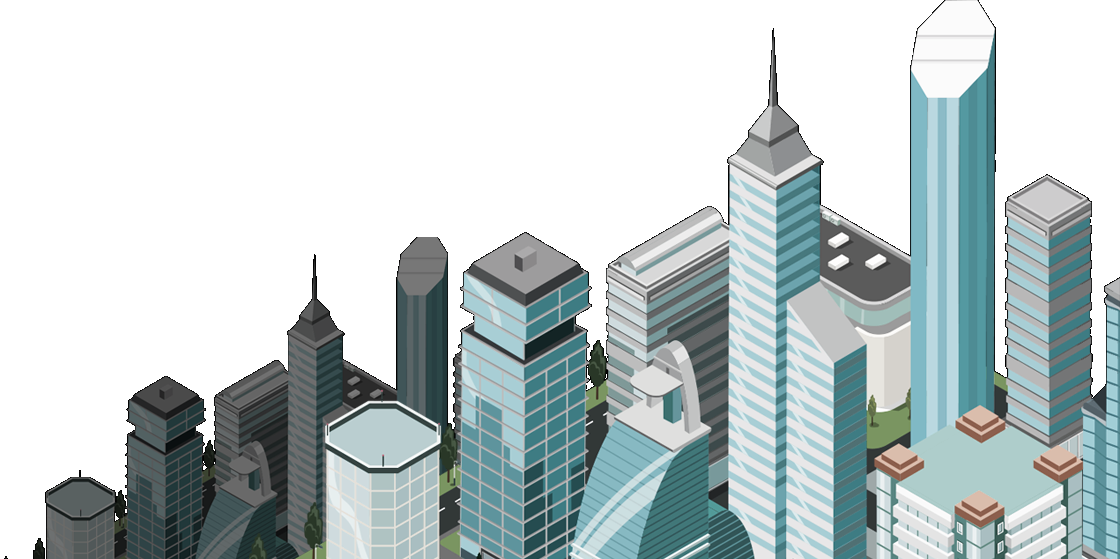
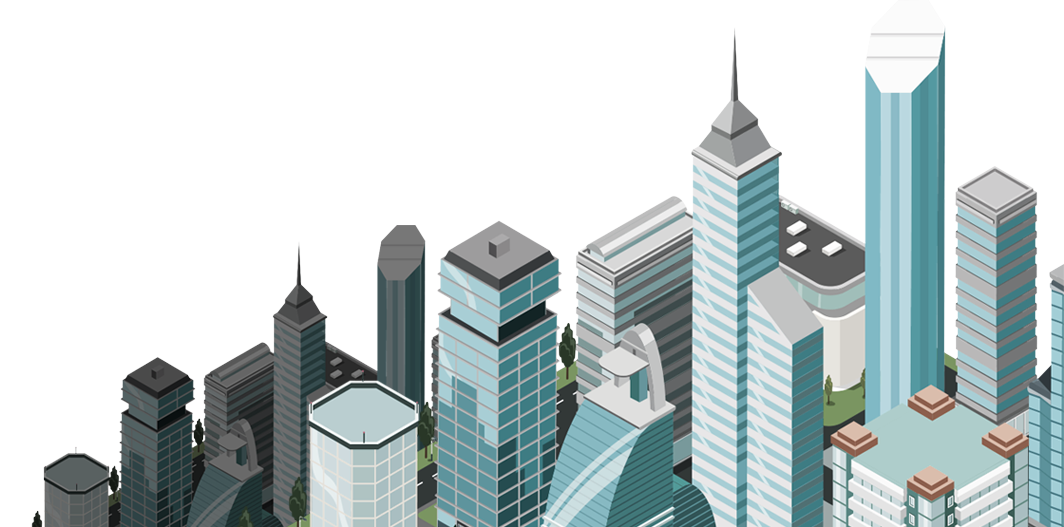
x

diff --git a/assets/styles/yojee.css b/assets/styles/yojee.css
@@ -256,17 +256,17 @@ img.biglogo{
 
 .sir-raffles {
     position: absolute;
-    max-height: 55%;
-    height:55%;
+    max-height: 58%;
+    height:58%;
     left: 38vw;
     bottom: 1.5vw;
 }
 
 .merlion {
     position: absolute;
-    max-height: 40%;
-    height:40%;
-    right:26vw;
+    max-height: 45%;
+    height:45%;
+    right:33vw;
     bottom: 1.5vw;
 }
 
@@ -329,7 +329,7 @@ img.biglogo{
 
 .depo{
     position: absolute;
-    height: 30%;
+    height: 33%;
     left: 0;
     bottom: 1.5vw;
 }
@@ -337,7 +337,7 @@ img.biglogo{
 
 .city{
     position: absolute;
-    height: 90%;
+    height: 106%;
     right: 0;
     bottom: 1.5vw;
 }
@@ -1444,8 +1444,10 @@ footer h4 a {
 }
 
 #home h3 {
-	font-size:29px;
+	font-size:45px;
 	letter-spacing:4px;
+	font-family: "Open Sans","Helvetica Neue" ;
+	font-weight:500;
 }
 
 .register2 {

diff --git a/index.html b/index.html
@@ -126,7 +126,7 @@
             <div class="hero-content">
 
               <img class="biglogo" src="assets/images/newhero/hellologo.png" alt="Hello Singapore!" >
-              <h3 class="h-alt hero-secondary">HELLO SINGAPORE! WE'RE OPEN!</h3> 
+              <h3 class="h-alt hero-secondary">HELLO SINGAPORE!</h3> 
               <!-- 
 			  <h2 class="hero-lead nunito_bold">HELLO SINGAPORE! WE'RE OPEN!</h2>
               <h4 class="h-alt hero-secondary">Just click and send. Yojee delivers.</h4>  

diff --git a/assets/styles/main.css b/assets/styles/main.css
@@ -7799,7 +7799,7 @@ form .input-error-2:focus {
 }
 
 .hero-content img {
-  margin-bottom: 25px;
+  margin-bottom: 0px;
 }
 
 /* ---- 20.9 Animated Heading ---- */
